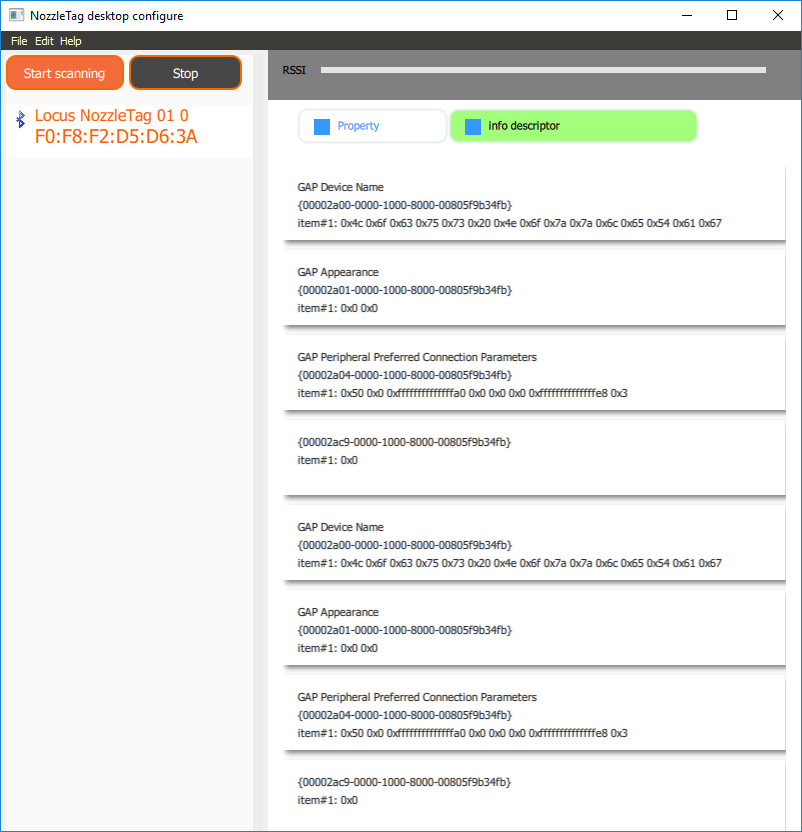
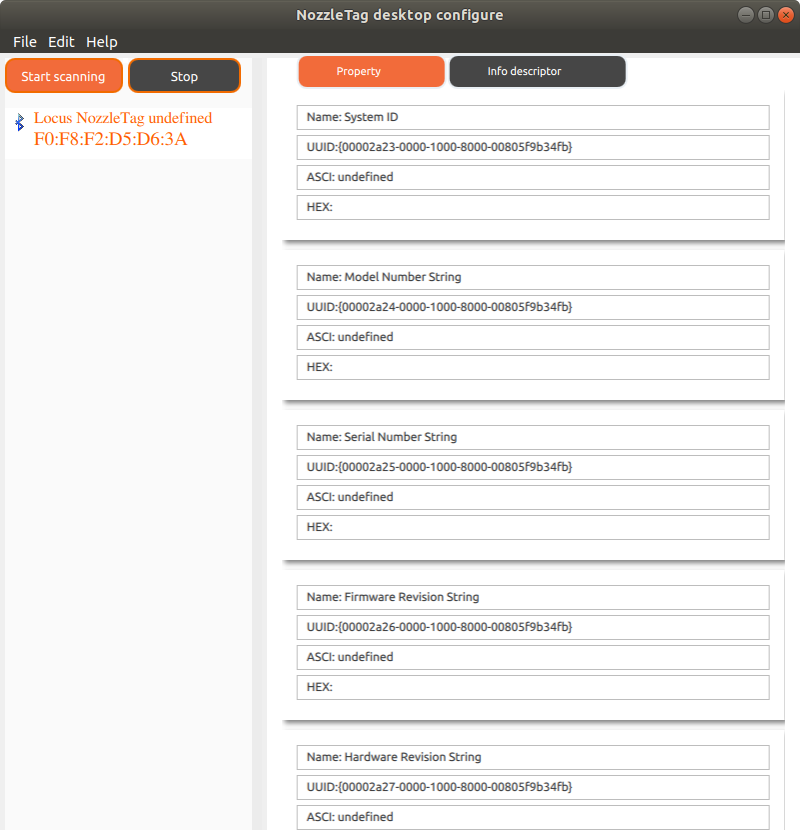
up

Changed region(s): [[0.0, 0.0, 1.0, 1.0]]

diff --git a/qml/PropertyPanel/PropertyServices.qml b/qml/PropertyPanel/PropertyServices.qml
@@ -60,21 +60,25 @@ ScrollView {
                             text: "Name: " + model.serviceName
                             width: parent.width
                             height: 25
+                            font.pointSize: 9
                         }
                         TextField {
                             text: "UUID:" + model.serviceUuid
                             width: parent.width
                             height: 25
+                            font.pointSize: 9
                         }
                         TextField {
                             text: "ASCI: " + model.serviceAsci
                             width: parent.width
                             height: 25
+                            font.pointSize: 9
                         }
                         TextField {
                             text: "HEX: " + model.serviceHex
                             width: parent.width
                             height: 25
+                            font.pointSize: 9
                         }
                     }
                 }

diff --git a/source/bluetooth/ble.cpp b/source/bluetooth/ble.cpp
@@ -73,9 +73,7 @@ Ble::Ble(BleModelDevice* bleModelDevice, BleModelService* bleModelService) {
         auto servList = bleApi->getServices().value<QList<QObject*>>();
         for(auto servItem: servList) {
             auto uuid = ((ServiceInfo*)servItem)->getUuid();
-            if(uuid == "f0001180-0451-4000-b000-000000000000") {
-                bleApi->connectToService(uuid);
-            }
+            bleApi->connectToService(uuid);
         }
     });
 
@@ -96,34 +94,6 @@ Ble::Ble(BleModelDevice* bleModelDevice, BleModelService* bleModelService) {
             bleApi->scanServices(addr.toString());
         }
     });
-
-    QTimer::singleShot(6000, Qt::CoarseTimer, this, [&]() {
-        auto serv = bleApi->getServices().value<QList<QObject*>>();
-        for(auto servItem: serv) {
-            auto res = dynamic_cast<ServiceInfo*>(servItem);
-            auto name = res->getUuid();
-            if(name == "f0001180-0451-4000-b000-000000000000") {
-                bleApi->connectToService(name);
-            }
-        }
-    });
-
-
-    QTimer* m_timer_poll = new QTimer();
-    connect(m_timer_poll, &QTimer::timeout, this, [&]() {
-        auto serv = bleApi->getServices().value<QList<QObject*>>();
-        for(auto servItem: serv) {
-            auto res = dynamic_cast<ServiceInfo*>(servItem);
-            auto name = res->getUuid();
-            if(name == "f0001180-0451-4000-b000-000000000000") {
-                res->service()->discoverDetails();
-                auto list = bleApi->getDevices().value<QList<BleModelDeviceItem*>>();
-                auto r = res->service()->characteristic(list.first()->getDevInfo().serviceUuids().first());
-                qDebug() << r.uuid() << r.value() << r.name();
-            }
-        }
-    });
-    m_timer_poll->start(1000);
 }
 
 Ble::~Ble() {}

diff --git a/source/bluetooth/api/bleApi.cpp b/source/bluetooth/api/bleApi.cpp
@@ -147,7 +147,7 @@ void BleApi::scanServices(const QString &address) {
 
     qDeleteAll(m_characteristics);
     m_characteristics.clear();
-//    emit characteristicsUpdated();
+    emit characteristicsChanged();
     qDeleteAll(m_services);
     m_services.clear();
     emit servicesUpdated();
@@ -196,9 +196,6 @@ void BleApi::addLowEnergyService(const QBluetoothUuid &serviceUuid) {
         return;
     }
     auto serv = new ServiceInfo(service);
-
-    qDebug() << "!!!!!!!!!!" << serv->getName();
-    qDebug() << "!!!!!!!!!!" << serv->getUuid();
 
     connect(service, &QLowEnergyService::characteristicChanged, this, &BleApi::characteristicsChanged);
     m_services.append(serv);
